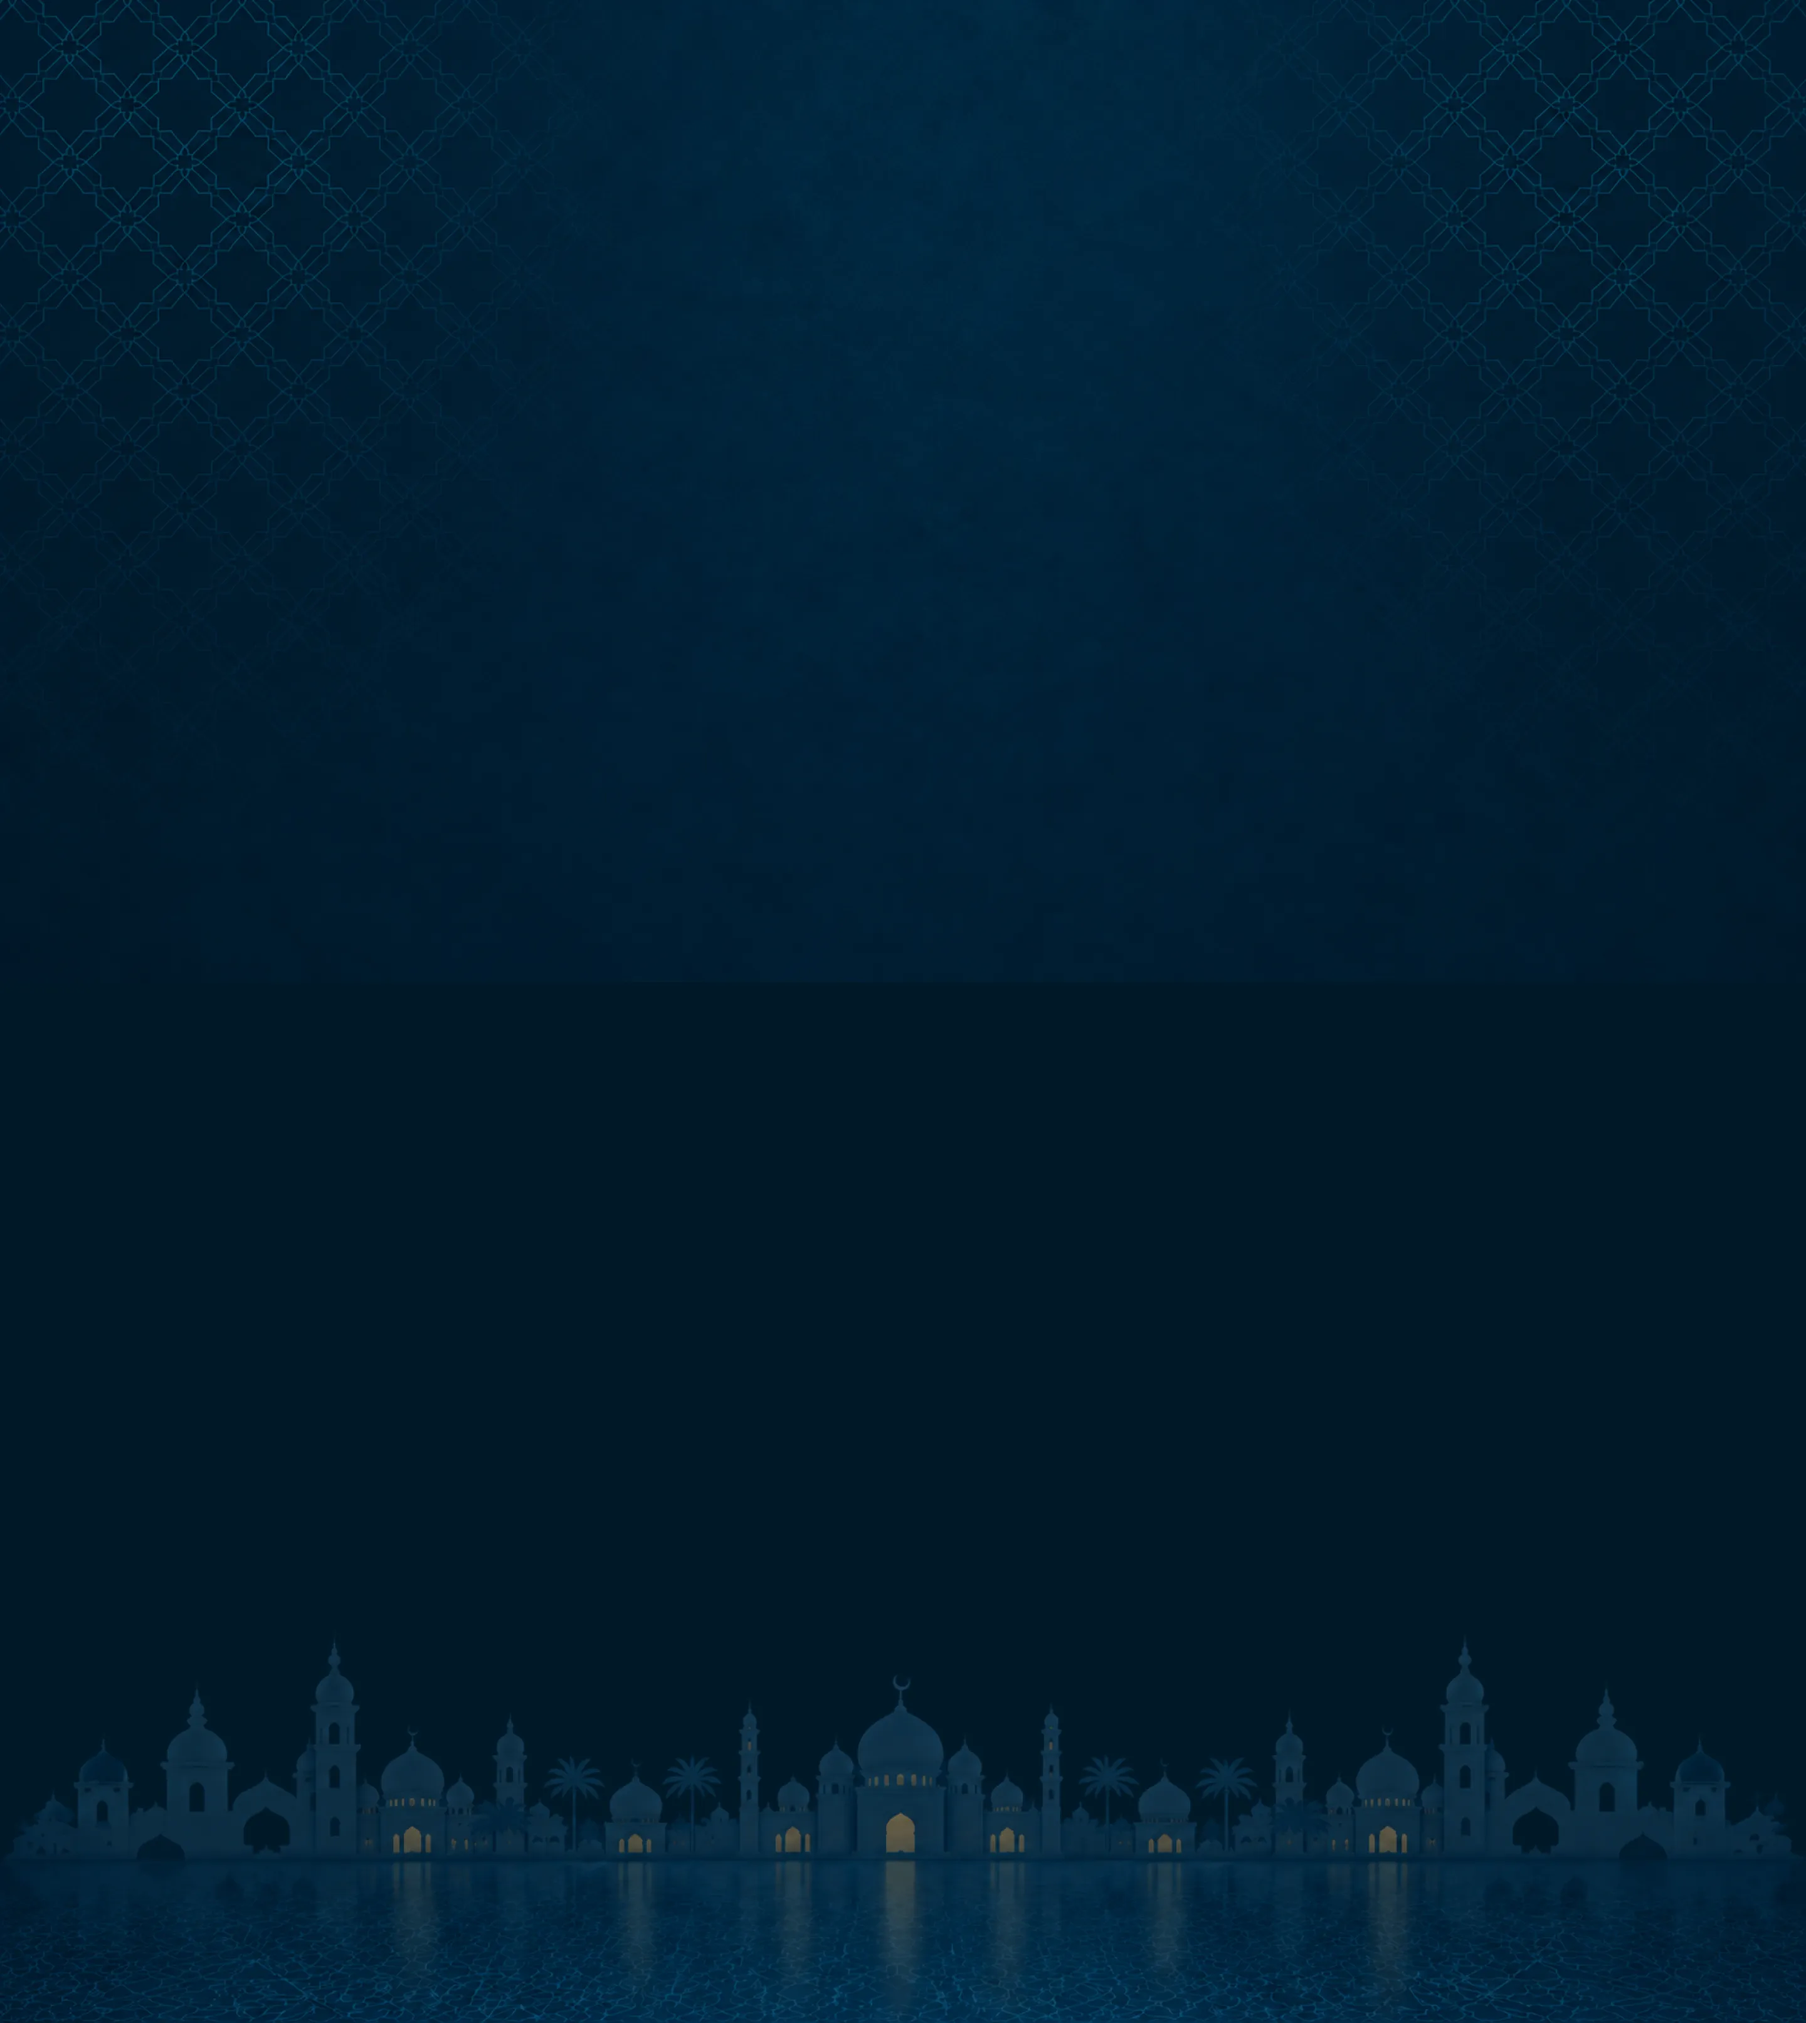
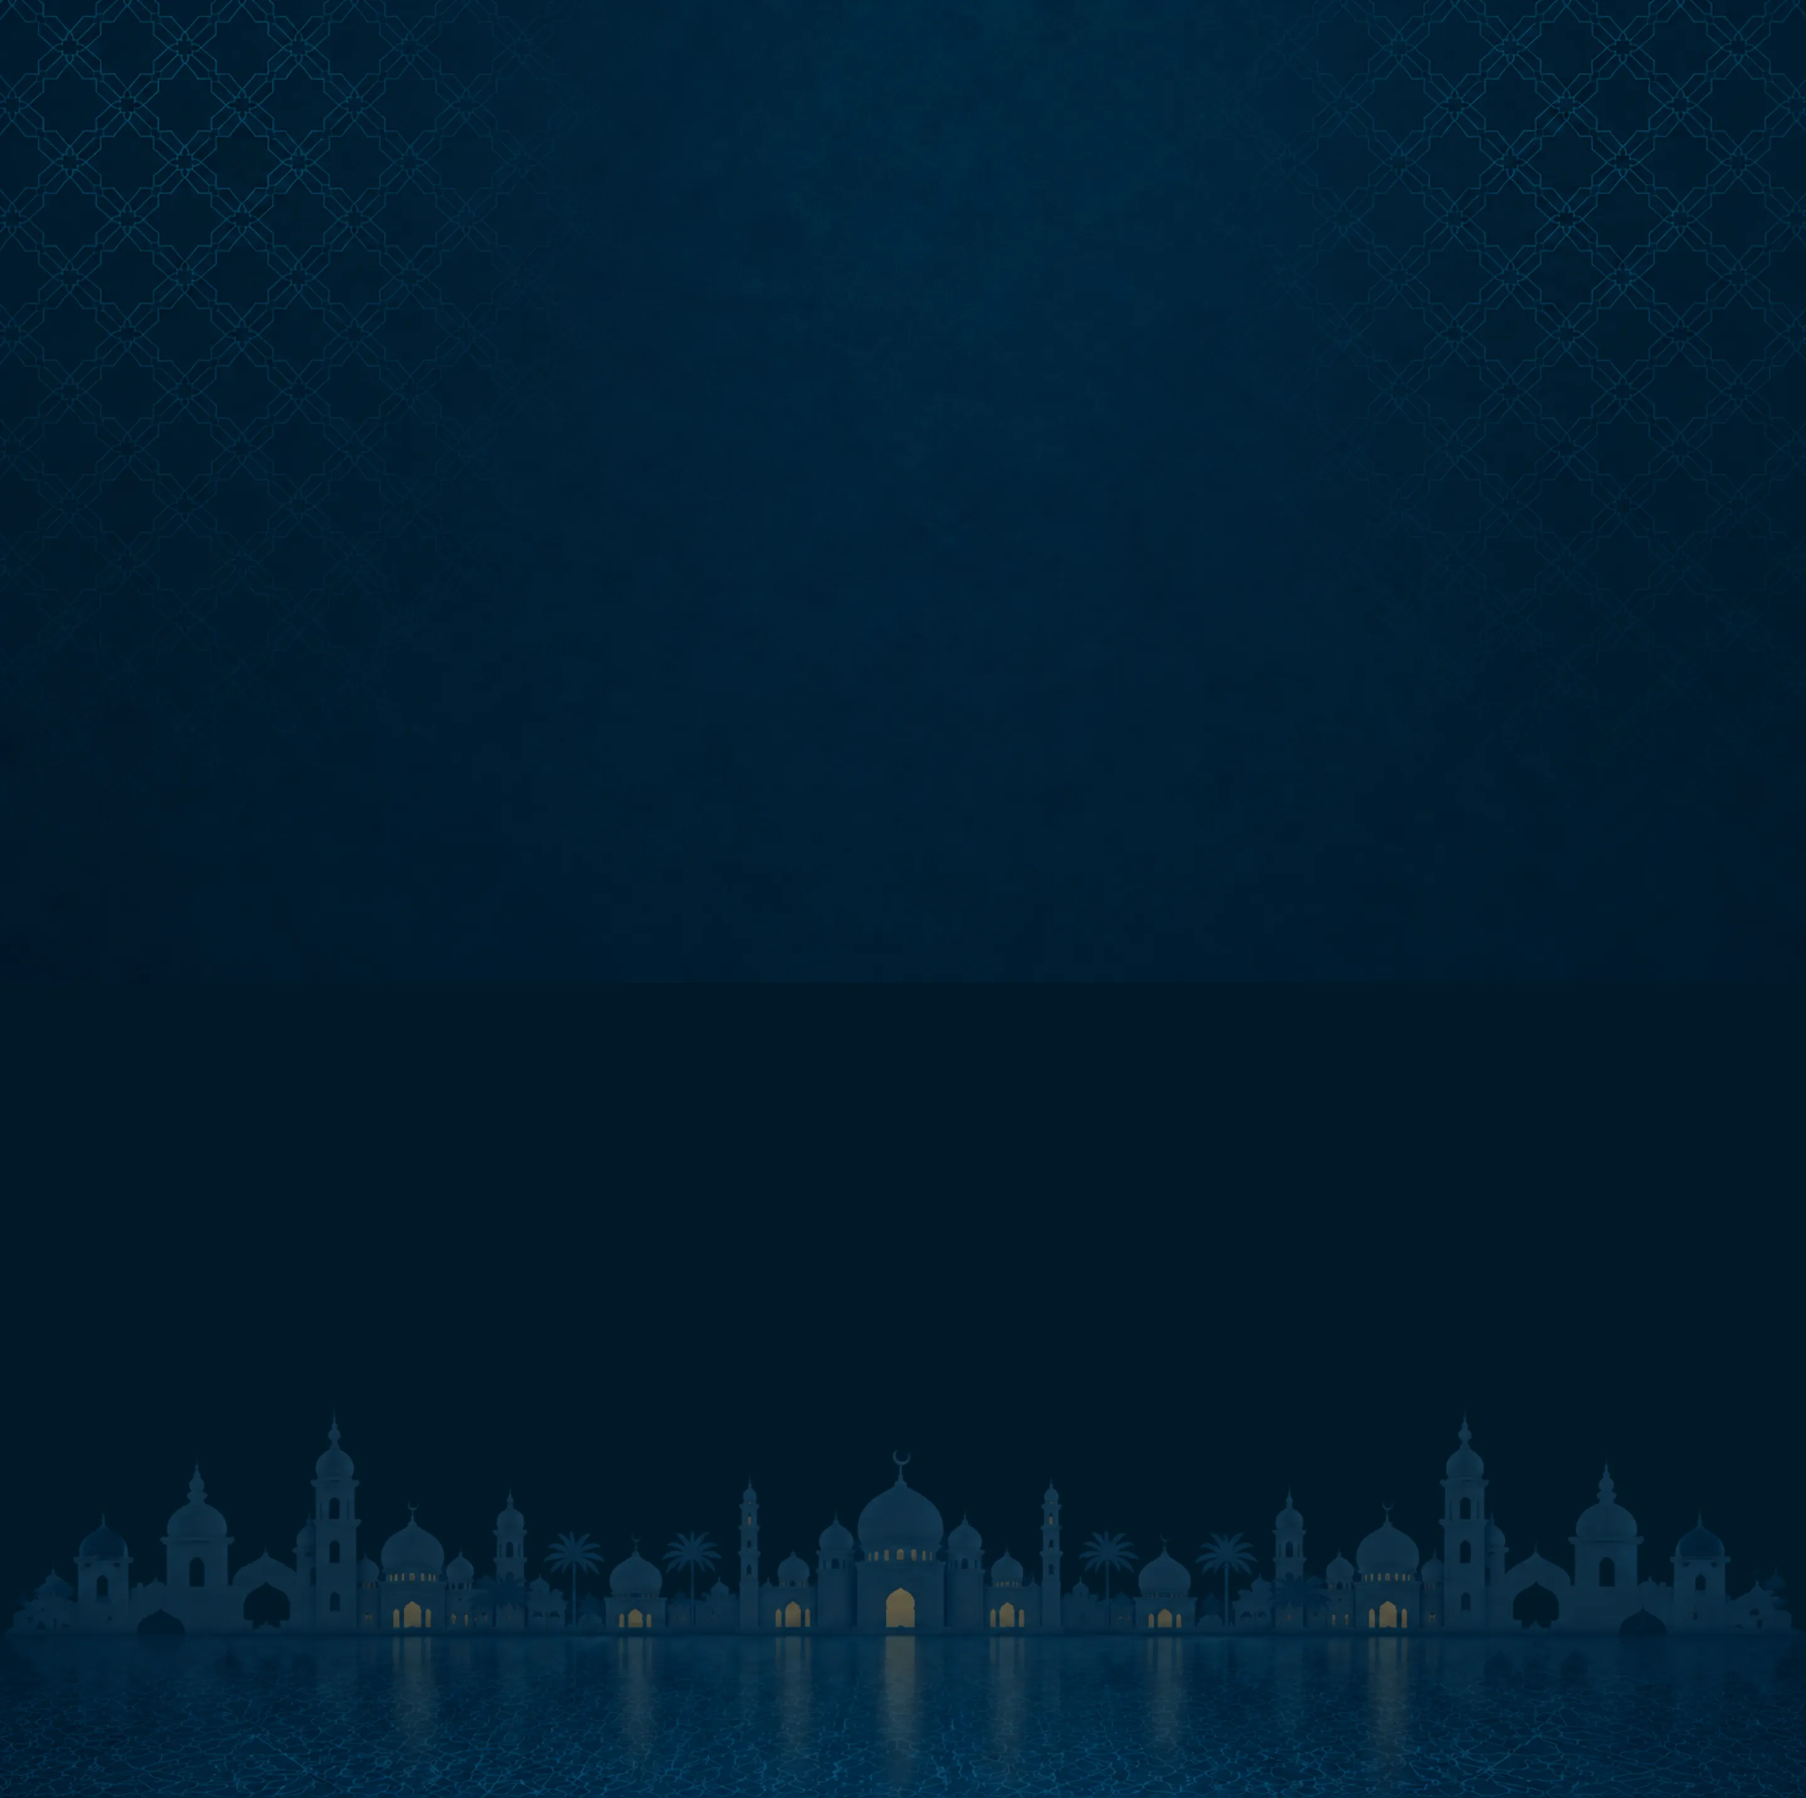
Hang the venue cards lower, and give the clock its own air
VENUE BG13 takes over as the night behind both sections — drawn for a
1440x1433 stage, exported at twice that, and carried as WebP at 118KB rather
than the 4.4MB it arrived as. The <img> declares the stage size rather than
the file's, since that is the shape the layout is reasoning about.

The cards now hang 175px below the ornament at the width they were drawn for,
scaling down from there rather than holding a desktop drop on a phone. And
the venues end well before the countdown starts: the gap between the cards and
"Counting Down to the Sacred Union" goes from 130px to 256px.

Both changes push the clock down, and the new artwork carries its skyline a
little higher than the last one did, so the clock had slipped 23px into the
domes again. The foot is deepened to match and both widths clear them by 51px.

Worth knowing: the content now stands 2072px tall at 1440 wide, where the
artwork's own stage is 1433. The picture is scaled to cover that, so nothing
is letterboxed and nothing is distorted, but the night is taller than the
drawing assumes.

diff --git a/app/venues.css b/app/venues.css
@@ -20,7 +20,7 @@
   display: flex;
   flex-direction: column;
   justify-content: flex-start;
-  padding: clamp(56px, 6vw, 92px) clamp(20px, 4vw, 56px) clamp(40px, 5vw, 72px);
+  padding: clamp(56px, 6vw, 92px) clamp(20px, 4vw, 56px) clamp(96px, 10vw, 168px);
   color: var(--cream);
 }
 
@@ -78,7 +78,11 @@
   align-items: start;
   gap: clamp(20px, 2.4vw, 36px);
   max-width: 960px;
-  margin: clamp(18px, 2.2vw, 30px) auto 0;
+  /* 175px above the cards at the 1440 width they were drawn for, scaling down
+     from there rather than holding a desktop drop on a phone. It is a long
+     gap on purpose: the heading sits high in the artwork's sky and the cards
+     hang well below it. */
+  margin: clamp(64px, 12.15vw, 175px) auto 0;
 }
 
 /* The card is the artwork itself; nothing is drawn around it. The art is
@@ -231,7 +235,7 @@
 
 @media (max-width: 860px) {
   .venues {
-    padding: clamp(72px, 12vw, 110px) 8px clamp(48px, 9vw, 80px);
+    padding: clamp(72px, 12vw, 110px) 8px clamp(64px, 14vw, 120px);
   }
 
   .venues__grid {

diff --git a/lib/assets.ts b/lib/assets.ts
@@ -16,9 +16,10 @@ export const ASSETS = {
   /** Venues & Directions backdrop — 2880x2428, i.e. exactly 2x the 1440x1214 stage */
   venueBackground: "/assets/images/VENUE%20BG%20copy.png",
   /**
-   * The night behind Venues & Directions and the Countdown together — 2880x3226,
-   * tall enough to carry both. WebP: the PNG it came from is 4.4MB and this is
-   * 119KB, which matters for a picture nobody waits on but everybody downloads.
+   * The night behind Venues & Directions and the Countdown together. Drawn for
+   * a 1440x1433 stage and exported at twice that, 2880x2866. WebP: the PNG it
+   * came from is 4.4MB and this is 118KB, which matters for a picture nobody
+   * waits on but everybody downloads.
    */
   nightBackground: "/assets/images/night.webp",
   /** Loader backdrop — 1665x944 WebP (spaces escaped for the URL) */

diff --git a/app/countdown.css b/app/countdown.css
@@ -34,7 +34,7 @@
      The picture is never cropped vertically — the box is always taller than
      its 2880x3226 — so the skyline is reliably the bottom fifth of the night,
      and room left here is what keeps the clock clear of it. */
-  padding: clamp(24px, 3.4vw, 56px) clamp(20px, 4vw, 56px) clamp(230px, 30vw, 450px);
+  padding: clamp(48px, 6vw, 104px) clamp(20px, 4vw, 56px) clamp(260px, 36.6vw, 530px);
 }
 
 .count__head {
@@ -157,7 +157,7 @@
   /* The same reckoning, and a far deeper foot: a phone's night is taller, so
      the fifth of it the skyline takes is taller too. */
   .count__inner {
-    padding: clamp(16px, 4vw, 32px) 20px clamp(360px, 60vh, 560px);
+    padding: clamp(36px, 9vw, 72px) 20px clamp(380px, 66vh, 620px);
   }
 
   .count__title { font-size: clamp(24px, 6.6vw, 34px); }

diff --git a/components/night/Night.tsx b/components/night/Night.tsx
@@ -44,8 +44,9 @@ export function Night({ children }: { children: ReactNode }) {
           loading="lazy"
           decoding="async"
           src={ASSETS.nightBackground}
-          width={2880}
-          height={3226}
+          /* the stage it was drawn for; the file is twice this in each direction */
+          width={1440}
+          height={1433}
           alt=""
         />
         <span className="night__scrim" />
